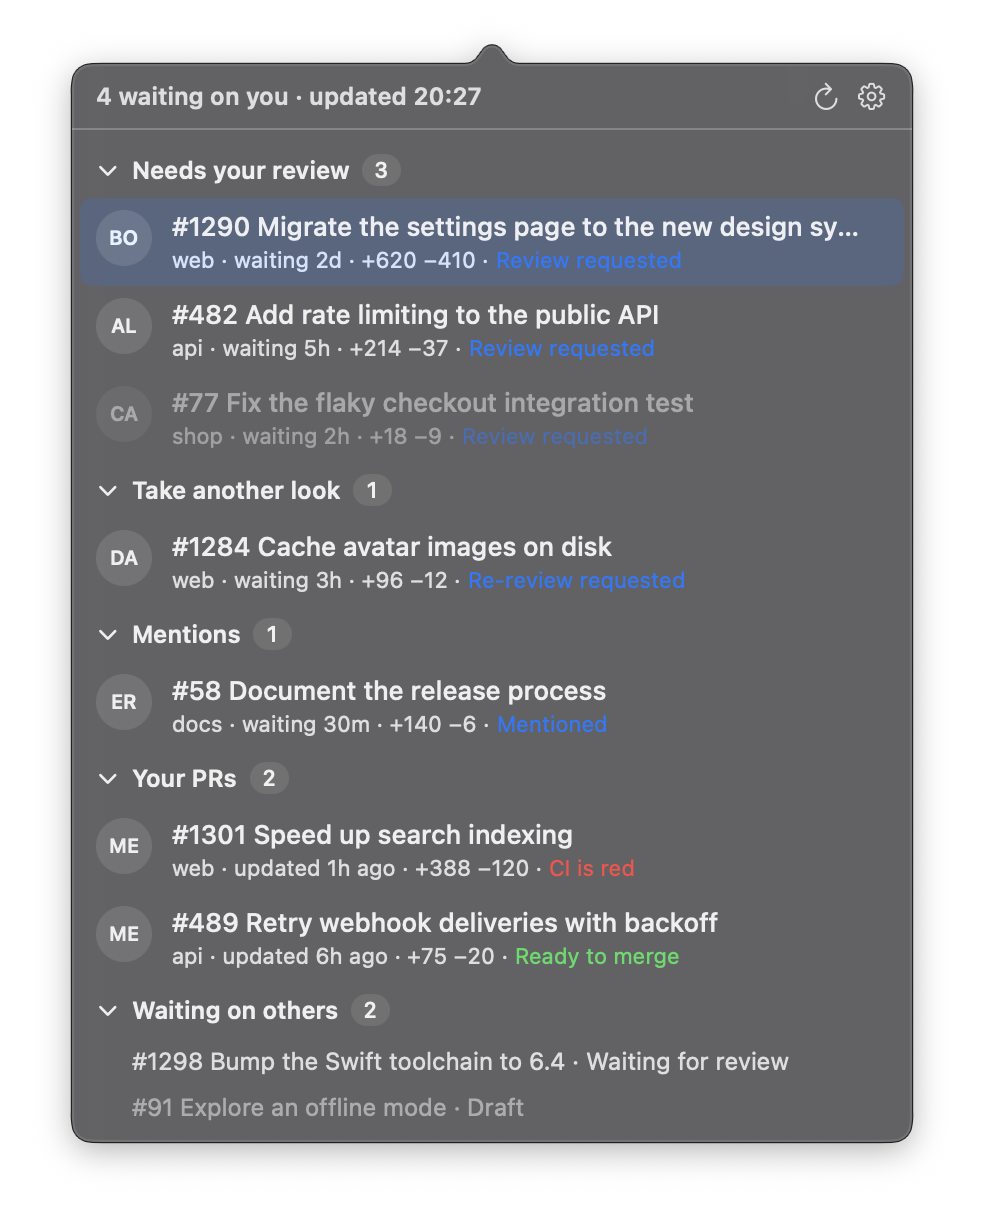
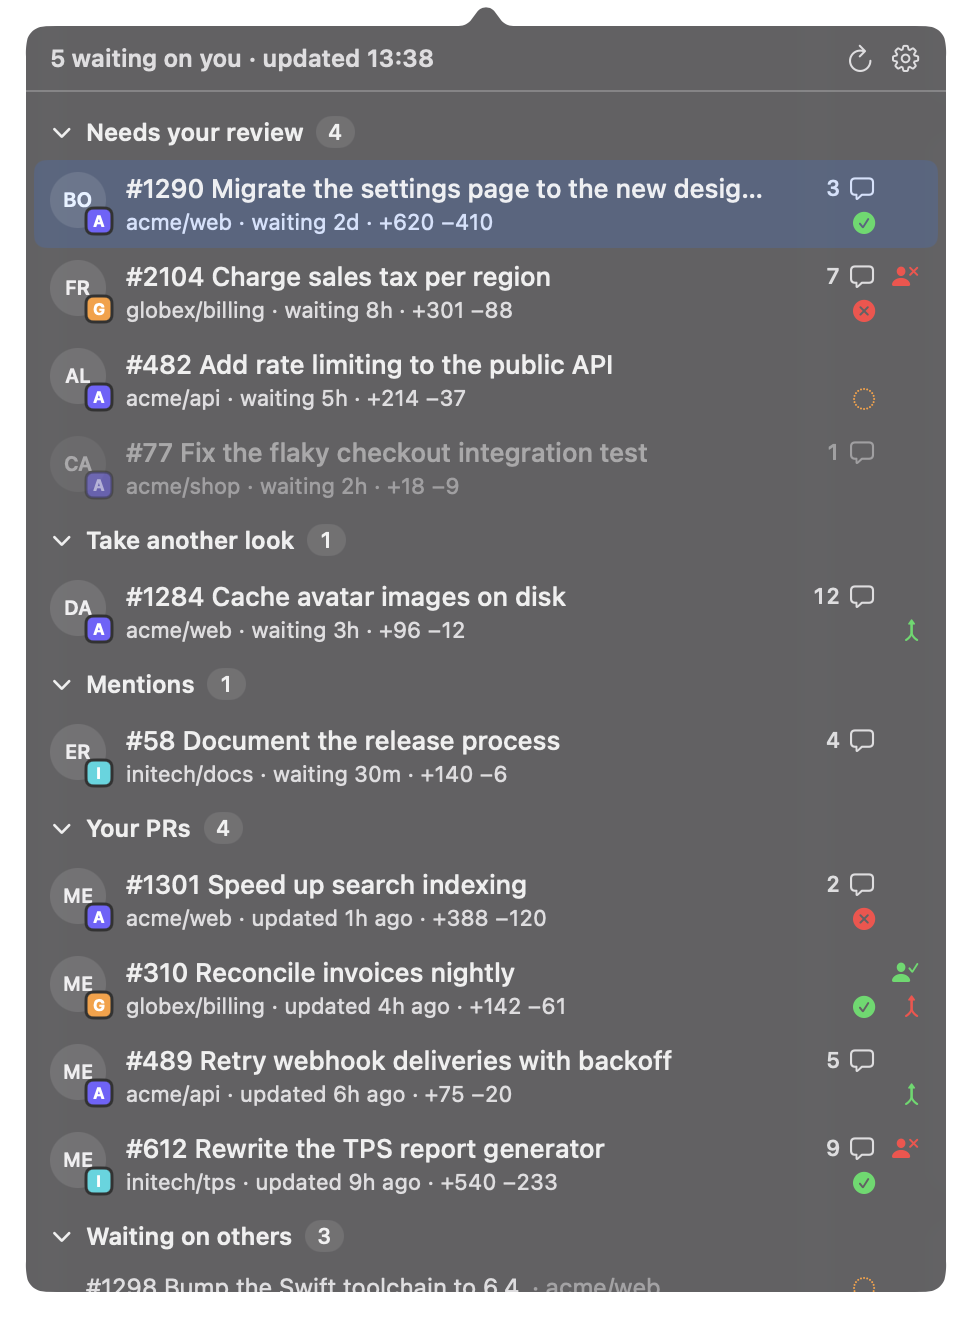
docs: describe status marks, organizations and grouping for v0.2.0

diff --git a/README.md b/README.md
@@ -16,7 +16,7 @@
 </p>
 
 <p align="center">
-  <img src="docs/images/popover.png" width="460" alt="PRInbox popover with sample pull requests">
+  <img src="docs/images/popover.png" width="500" alt="PRInbox popover with sample pull requests">
 </p>
 
 ## Why
@@ -39,8 +39,14 @@ third-party OAuth apps but have approved the GitHub CLI. PRInbox never reads, st
   - **Your PRs:** yours that need you: changes requested, merge conflicts, CI is red, or approved and
     ready to merge.
   - **Waiting on others:** the rest of yours, one quiet line each.
-- **Rows that answer "what and how long":** author avatar, repository, time waiting (counted from when
-  your review was requested), lines added and removed, and status.
+- **Rows that answer "what, where and how long":** author avatar with the organization's avatar in its
+  corner, `org/repo` (when your inbox spans more than one organization), time waiting (counted from when
+  your review was requested), and lines added and removed.
+- **Status at a glance:** four marks at the right edge of each row: comment count, review state
+  (approved or changes requested), CI (passed, failed, running) and merge state (ready to merge or
+  conflicts). Hover a mark for its meaning.
+- **Group by organization** (off by default): each section groups its rows under a thin separator with
+  the organization's color, name and count.
 - **Keyboard first:** ↑/↓, Enter to open, R to refresh, Esc to close, and a global shortcut
   (⌃⌥P by default).
 - **A real menu-bar popover:** tiling window managers such as OmniWM, AeroSpace and yabai leave it alone.
@@ -119,9 +125,9 @@ When this override is set, PRInbox uses only that path. Remove it with
 
 ### Settings
 
-Open Settings with the gear in the popover. It holds the global shortcut, launch at login, the detected
-`gh` path, the version and Quit. Settings stay inside the popover, so there is never a window for a
-tiling window manager to grab.
+Open Settings with the gear in the popover. It holds the global shortcut, launch at login, **Group by
+organization**, **Show organization avatars**, the detected `gh` path, the version and Quit. Settings
+stay inside the popover, so there is never a window for a tiling window manager to grab.
 
 ### Command line
 
@@ -136,7 +142,7 @@ tiling window manager to grab.
   and never reads, stores or sends a token.
 - **Nothing leaves your Mac:** there is no telemetry and no server. The only network traffic is gh's
   GitHub API calls (your inbox every five minutes, the latest PRInbox release once a day) and avatar
-  downloads from `avatars.githubusercontent.com`.
+  downloads from `avatars.githubusercontent.com` (authors and repository owners).
 - **Local data:** avatars are cached in `~/Library/Caches/io.github.creeonix.prinbox`. Settings live in
   the app's user defaults.
 

diff --git a/docs/manual-checklist.md b/docs/manual-checklist.md
@@ -20,3 +20,11 @@ Run them before a release.
 - [ ] gh missing (`/Applications/PRInbox.app/Contents/MacOS/Prinbox -ghPath /nonexistent`): the popover shows the "gh not found" steps.
 - [ ] After fixing gh (for example `gh auth login`), the popover returns to the inbox within about 10 seconds without a click.
 - [ ] `make install VERSION=0.0.1`: after the first refresh the icon shows the up-arrow badge, the popover shows "PRInbox x.y.z is available", the right-click menu has "Download PRInbox x.y.z…", and all open the release page. `make install` (real version) clears them.
+- [ ] The popover is 460 pt wide, still opens under the icon, and the tiling window manager leaves it alone.
+- [ ] On the live account, org badges show the organization's real avatar after the first refresh; author avatars still load.
+- [ ] Hovering a mark shows its meaning (for example "CI running", "4 comments").
+- [ ] Settings > Group by organization: rows regroup under separators with a color dot, name and count; ↑/↓ walk the rows in the displayed order; turning it off restores the flat order.
+- [ ] Settings > Show organization avatars off hides the badges; on shows them again.
+- [ ] Start recording a shortcut, leave Settings with the back button: the old shortcut opens the popover again at once.
+- [ ] Change the login item in System Settings > General > Login Items, reopen Settings: the toggle shows the new state.
+- [ ] With the network off, open the popover (initials show); turn the network on, wait five minutes, reopen: avatars load.
